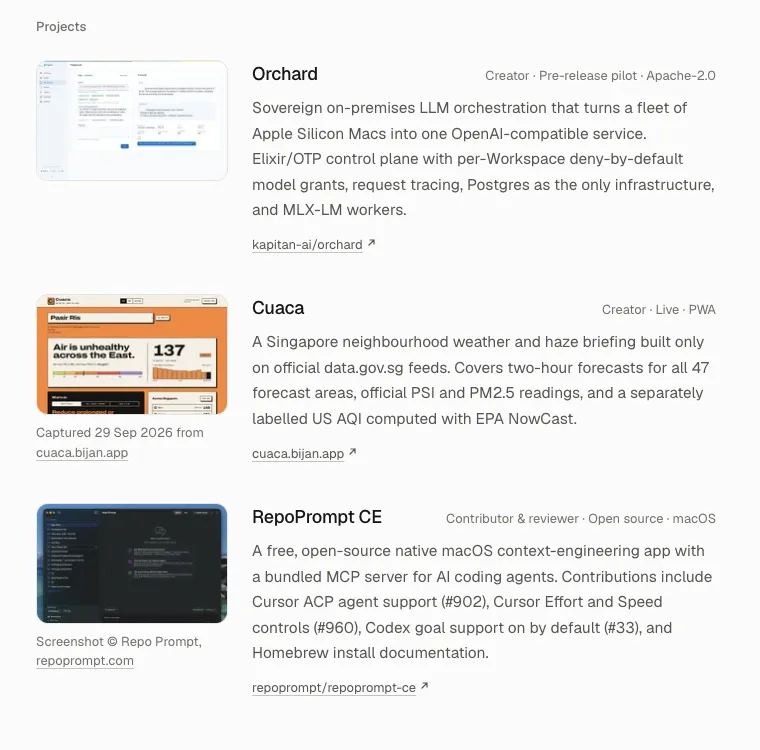
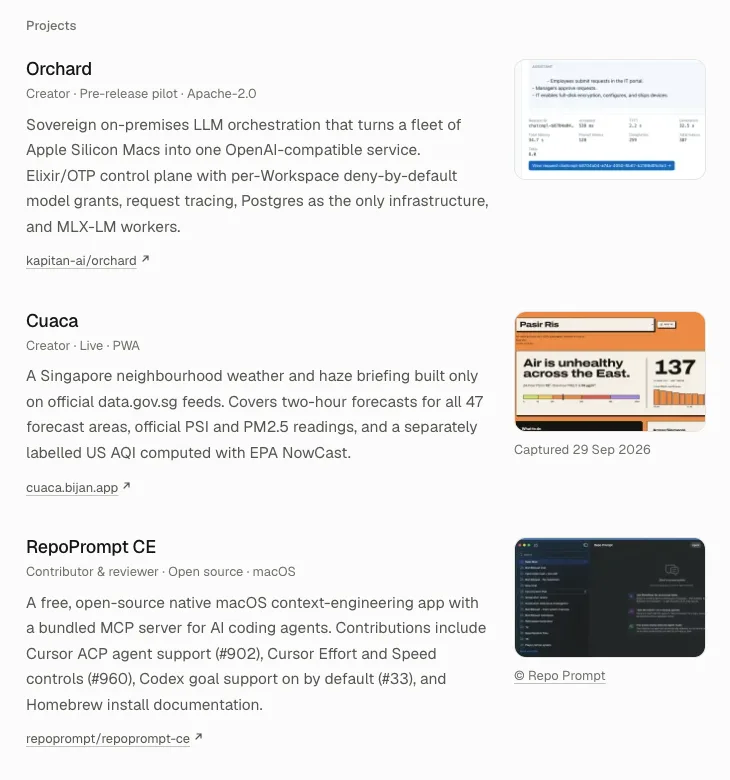
feat(projects): move thumbnails right and inline on phones

Changed region(s): [[0.0301, 0.0307, 0.9644, 0.9813], [0.9342, 0.1533, 0.9644, 0.184]]

diff --git a/src/data/projects.ts b/src/data/projects.ts
@@ -1,16 +1,20 @@
 import type { ImageMetadata } from 'astro';
 // Existing project-owned screenshots supplied for this site; see DESIGN.md for provenance.
 import orchardScreenshot from '../assets/projects/playground-inference.webp';
+import orchardThumbnail from '../assets/projects/playground-inference-thumb.webp';
 // https://cuaca.bijan.app/ — Now view captured 2026-09-29, 1440×900 at 2× DPR.
 import cuacaScreenshot from '../assets/projects/now-1440.png';
+import cuacaThumbnail from '../assets/projects/now-1440-thumb.webp';
 // https://repoprompt.com/images/agent-new-session.webp — downloaded 2026-09-29.
 // © Repo Prompt, used with attribution
 import repopromptScreenshot from '../assets/projects/repoprompt-agent-new-session.webp';
+import repopromptThumbnail from '../assets/projects/repoprompt-agent-new-session-thumb.webp';
 
 export type Project = {
   name: string;
   role: string;
   screenshot: ImageMetadata;
+  thumbnail: ImageMetadata;
   screenshotAlt: string;
   caption?: string;
   captionLink?: string;
@@ -30,7 +34,8 @@ export const projects: Project[] = [
     name: 'Orchard',
     role: 'Creator',
     screenshot: orchardScreenshot,
-    screenshotAlt: 'Orchard Playground showing a completed local inference request',
+    thumbnail: orchardThumbnail,
+    screenshotAlt: 'Orchard Playground transcript showing a completed local inference request',
     pitch: 'Your LLMs. Your hardware. Your rules.',
     description:
       'Sovereign on-premises LLM orchestration that turns a fleet of Apple Silicon Macs into one OpenAI-compatible service.',
@@ -47,10 +52,9 @@ export const projects: Project[] = [
     name: 'Cuaca',
     role: 'Creator',
     screenshot: cuacaScreenshot,
-    screenshotAlt: 'Cuaca Now view showing air quality and weather for Pasir Ris',
-    caption: 'Captured 29 Sep 2026 from',
-    captionLink: 'cuaca.bijan.app',
-    captionUrl: 'https://cuaca.bijan.app',
+    thumbnail: cuacaThumbnail,
+    screenshotAlt: 'Cuaca Now view showing the air quality headline and PSI reading for Pasir Ris',
+    caption: 'Captured 29 Sep 2026',
     url: 'https://cuaca.bijan.app',
     description:
       'A Singapore neighbourhood weather and haze briefing built only on official data.gov.sg feeds.',
@@ -64,9 +68,9 @@ export const projects: Project[] = [
     name: 'RepoPrompt CE',
     role: 'Contributor & reviewer',
     screenshot: repopromptScreenshot,
-    screenshotAlt: 'RepoPrompt CE agent session window with the chat list, the workflow tips and the Codex CLI model selector',
-    caption: 'Screenshot © Repo Prompt,',
-    captionLink: 'repoprompt.com',
+    thumbnail: repopromptThumbnail,
+    screenshotAlt: 'RepoPrompt CE agent session window showing the chat list and workflow tips',
+    captionLink: '© Repo Prompt',
     captionUrl: 'https://repoprompt.com',
     status: 'Open source · macOS',
     description:

diff --git a/DESIGN.md b/DESIGN.md
@@ -62,6 +62,10 @@ typography:
     fontFamily: "Geist, ui-sans-serif, system-ui, sans-serif"
     fontSize: "13px"
     fontWeight: 400
+  caption-small:
+    fontFamily: "Geist, ui-sans-serif, system-ui, sans-serif"
+    fontSize: "11px"
+    fontWeight: 400
   mono-date:
     fontFamily: "'Geist Mono', ui-monospace, monospace"
     fontSize: "12.5px"
@@ -70,6 +74,7 @@ typography:
 rounded:
   focus: "3px"
   control: "6px"
+  thumbnail: "8px"
   frame: "12px"
   round: "50%"
 spacing:
@@ -185,7 +190,8 @@ A warm-neutral paper-and-ink palette with one cobalt accent that almost never ap
 - **Role line** (400, 16px, line-height 1.55, max 52ch, Pencil): the roles under the name, 16px below it.
 - **Body small** (400, 14px, line-height 1.6): rail links and experience summaries (line-height 1.55). Bio copy is a 14.5px variant at line-height 1.7.
 - **Label** (500, 13px, Pencil): the section headings (Projects, Writing, Experience, Bio).
-- **Meta** (400, 13px): project role and status lines, captions, project URLs, copy buttons and the footer.
+- **Meta** (400, 13px): project role and status lines, desktop captions, project URLs, copy buttons and the footer.
+- **Small caption** (400, 11px): one-line thumbnail credits below 600px of Projects-list width.
 - **Mono date** (Geist Mono, 12.5px, tabular figures, Pencil): post dates and experience year ranges.
 
 ### Named Rules
@@ -200,28 +206,32 @@ A centred 1040px frame with 24px side padding, a top padding of `clamp(3rem, 11v
 Vertical rhythm: 96px between sections, and 96px before the footer, which has a hairline above it.
 Within the About block the role line sits 16px below the name and the intro 40px below the role line.
 Section labels sit 24px above their content.
-Projects are 40px apart, with a 192px thumbnail and text in columns separated by 24px.
-At 600px and below, the thumbnail stacks above the text with a 16px gap.
+Projects are 40px apart, with text on the left and a 192px thumbnail on the right, separated by 24px.
+When the Projects list itself is under 600px wide, the thumbnail becomes 112px beside the heading and meta line, while the description and link run full width below with a 12px row gap.
 Writing and experience rows share a two-column grid: a 104px date column, a 16px gap and the text.
 Rows are padded 10px (writing) or 12px (experience).
 
 Breakpoints:
 - **767px and below:** one column with a 40px row gap. The rail turns into a static top bar with the avatar on the left and the theme toggle on the right, and the section nav is hidden.
-- **600px and below:** project thumbnails stack above the text at a fixed 192px width.
+- **Projects list under 600px wide:** entries use a 112px thumbnail beside the heading, regardless of viewport width; this covers the 768–840px tablet band when the rail narrows the reading column.
 - **420px and below:** the date column narrows to 90px with a 14px gap.
 
 Sections use `scroll-margin-top: 64px`, so in-page links land clear of the top edge.
 
 ## Elevation & Depth
 
-The system is flat. There is no `box-shadow` or gradient anywhere. Depth comes from one tonal step: the Shelf tint (`paper-2`) behind the bio panel and the screenshot frames, and as a hover fill. Hairlines separate list rows. The only layered effects are motion: the load-in blur and the 1.015 screenshot zoom inside a clipped frame.
+The system is flat.
+There is no `box-shadow` or gradient anywhere.
+Depth comes from one tonal step: the Shelf tint (`paper-2`) behind the bio panel and the screenshot frames, and as a hover fill.
+Hairlines separate list rows.
+The only layered effect is the load-in blur; project screenshots brighten on hover in dark mode without moving.
 
 ### Named Rules
 **The No-Shadow Rule.** Surfaces never cast shadows. Separate things with the Shelf tint, a 1px hairline or whitespace.
 
 ## Shapes
 
-Corners are soft and graded by object size: 12px for large frames (screenshot previews, the bio panel), 6px for small controls and row hovers (copy buttons, writing rows) and 3px on the focus ring.
+Corners are soft and graded by object size: 12px for desktop screenshot frames and the bio panel, 8px for narrow-column thumbnails, 6px for small controls and row hovers (copy buttons, writing rows) and 3px on the focus ring.
 Identity and icon marks are fully round: the avatar, the rail dot and the theme toggle.
 Borders are always 1px hairlines.
 Screenshots are cropped to 16:10 from the top.
@@ -244,11 +254,13 @@ A quiet table of contents that follows the reader.
 - **Outbound (project URLs, footer):** only the text span is underlined, followed by an 11px up-right arrow drawn as inline SVG with a 3px left margin.
 
 ### Project Entry
-- **Preview:** a 192px-wide, 16:10 top-aligned thumbnail beside the project text, in a clipped frame with a 1px hairline border, 12px radius and Shelf background.
-  On narrow phones it stacks above the text without expanding to full width.
-  On hover the image scales to 1.015 (500ms, expo-out).
-- **Caption:** optional, 13px Pencil, 8px below the image, holding an attribution link.
-- **Heading row:** the project name in Title style (linked without an underline), with the role, status and licence in 13px Pencil. They sit at either end of one wrapping baseline row.
+- **Preview:** a purpose-cropped, 192px-wide, 16:10 thumbnail to the right of the text, in a clipped frame with a 1px hairline border, 12px radius and Shelf background.
+  Below a 600px Projects-list width, it becomes 112px wide beside the heading, with an 8px radius.
+  Dark-mode brightness returns to full on hover or focus, without a scale transform.
+- **Caption:** optional, single-line Pencil text, 13px and 8px below the desktop image or 11px and 6px below the small image.
+  Cuaca has a plain capture date; RepoPrompt links its copyright credit.
+- **Heading row:** the project name in Title style (linked without an underline), with the role, status and licence beneath it in 13px Pencil.
+  The heading starts at the reading column's left edge, with its cap height aligned to the thumbnail top.
 - **Body:** a 15.5px Graphite description, then the bare URL in the outbound link style.
 
 ### List Rows (Writing, Experience)
@@ -276,7 +288,7 @@ Blocks marked to rise animate from 6px below with 3px blur to rest over 700ms on
 - **Do** keep all text in the Ink, Graphite and Pencil steps, and create emphasis with weight 500 or size.
 - **Do** reserve the accent for the focus ring (2px solid, 3px offset) and the active rail dot.
 - **Do** separate sections with 96px of space and list rows with 1px hairlines.
-- **Do** frame thumbnails at 16:10, top-aligned, with a hairline border and a 12px radius, and dim them to 0.88 brightness in dark mode.
+- **Do** frame purpose-cropped thumbnails at 16:10 with a hairline border, use a 12px radius at 192px and an 8px radius at 112px, and dim them to 0.88 brightness in dark mode.
 - **Do** set dates and year ranges in Geist Mono at 12.5px with tabular figures.
 - **Do** define every new colour in both the light and the dark palette.
 - **Do** keep interactive targets at least 24px tall.
@@ -297,8 +309,11 @@ All generated responsive WebP derivatives inherit their source's attribution. Pr
 | --- | --- | --- |
 | `public/profile.png` | Existing user-supplied portrait. Used for the avatar and social image. Astro creates resized WebP derivatives. The photographer and creation date are not recorded. | Portrait supplied by Najib Ninaba; no additional rights claim made. |
 | `public/apple-touch-icon.png`, `public/favicon.ico` | Rendered from the outlined Geist Medium `NN` monogram in `public/favicon.svg` on 2026-09-29. Provenance is recorded in adjacent JSON sidecars because `impeccable embed-prompt` was unavailable. | Site-owned monogram; no photo or third-party artwork. |
-| `src/assets/projects/playground-inference.webp` | From `kapitan-ai/orchard`, `docs/media/playground-inference.png`, imported on 2026-09-29. Prior production: ImageMagick `-resize '1600x>' -quality 82`. Astro creates top-aligned 16:10 WebP thumbnail derivatives. | © 2026 AI Singapore, Orchard repository material under its Apache-2.0 documentation terms. |
-| `src/assets/projects/now-1440.png` | Capture of https://cuaca.bijan.app/ on 2026-09-29, Now view, 1440×900 CSS px at 2× DPR. Astro creates top-aligned WebP derivatives. | Cuaca, created by Najib Ninaba. Visible linked caption: "Captured 29 Sep 2026 from cuaca.bijan.app". |
-| `src/assets/projects/repoprompt-agent-new-session.webp` | Downloaded from https://repoprompt.com/images/agent-new-session.webp on 2026-09-29 (source 2584×1794). Astro creates top-aligned 16:10 WebP thumbnail derivatives. | © Repo Prompt, used with attribution. Visible linked caption: "Screenshot © Repo Prompt, repoprompt.com". |
+| `src/assets/projects/playground-inference.webp` | From `kapitan-ai/orchard`, `docs/media/playground-inference.png`, imported on 2026-09-29 and retained as the original. | © 2026 AI Singapore, Orchard repository material under its Apache-2.0 documentation terms. |
+| `src/assets/projects/playground-inference-thumb.webp` | Cropped 640×400 at +800+340 from the Orchard original to show the completed transcript and request bar; WebP quality 86. | Inherits the Orchard source attribution. |
+| `src/assets/projects/now-1440.png` | Capture of https://cuaca.bijan.app/ on 2026-09-29, Now view, 1440×900 CSS px at 2× DPR, retained as the original. | Cuaca, created by Najib Ninaba. |
+| `src/assets/projects/now-1440-thumb.webp` | Cropped 2200×1375 at +150+200 from the Cuaca original to keep the Pasir Ris air-quality headline and PSI reading; WebP quality 86. | Cuaca, created by Najib Ninaba. Visible plain caption: "Captured 29 Sep 2026". |
+| `src/assets/projects/repoprompt-agent-new-session.webp` | Downloaded from https://repoprompt.com/images/agent-new-session.webp on 2026-09-29 (source 2584×1794) and retained as the original. | © Repo Prompt, used with attribution. |
+| `src/assets/projects/repoprompt-agent-new-session-thumb.webp` | Cropped 1920×1200 at +90+45 from the RepoPrompt original to show the agent window without wallpaper; WebP quality 86. | © Repo Prompt, used with attribution. Visible linked caption: "© Repo Prompt" at https://repoprompt.com. |
 
 The Orchard source provenance comes from the prior content-build thread ([T-01a0ec44](https://ampcode.com/threads/T-01a0ec44-ab92-75bd-8c23-51fc3823baba)). Its source checkout commit was not recorded.

diff --git a/PRODUCT.md b/PRODUCT.md
@@ -38,6 +38,7 @@ Static Astro site on GitHub Pages at najibninaba.com. Content is hand-curated in
 - No downloadable headshot. Najib does not provide headshots for organisers (2026-09-29).
 - Assets on hand: `public/profile.png` (casual headshot).
 - Visual direction (standing preference, chosen 2026-09-29): the category standard played straight, a minimal engineer's homepage with no themed metaphor. The craft bar comes from paco.me, rauno.me, leerob.com, brianlovin.com, mitchellh.com and simonwillison.net: typography first, restrained, precise interaction details, writing and projects as clean lists, and polished light/dark themes.
+- Projects stay text-first: names align with the reading column's left edge, while small, purposeful screenshot crops support the copy on the right, including on phones.
 
 ## Evidence on Hand
 - Canonical long, speaker, short and one-line bios (Amp Professional Bio thread).
